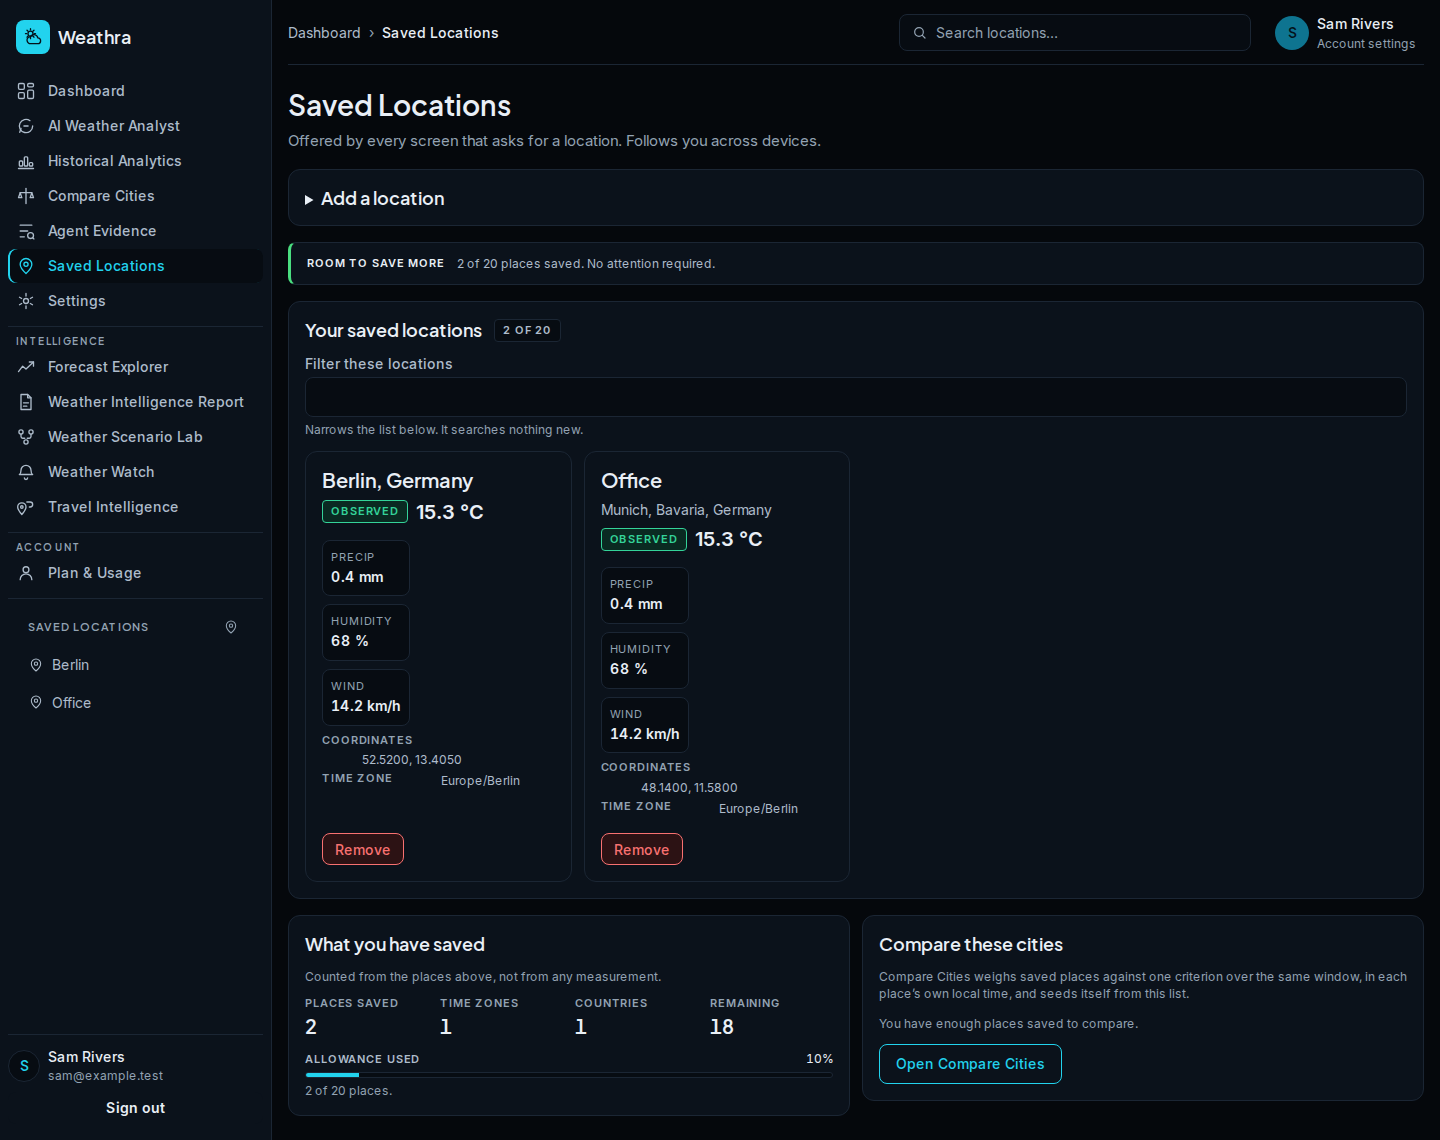
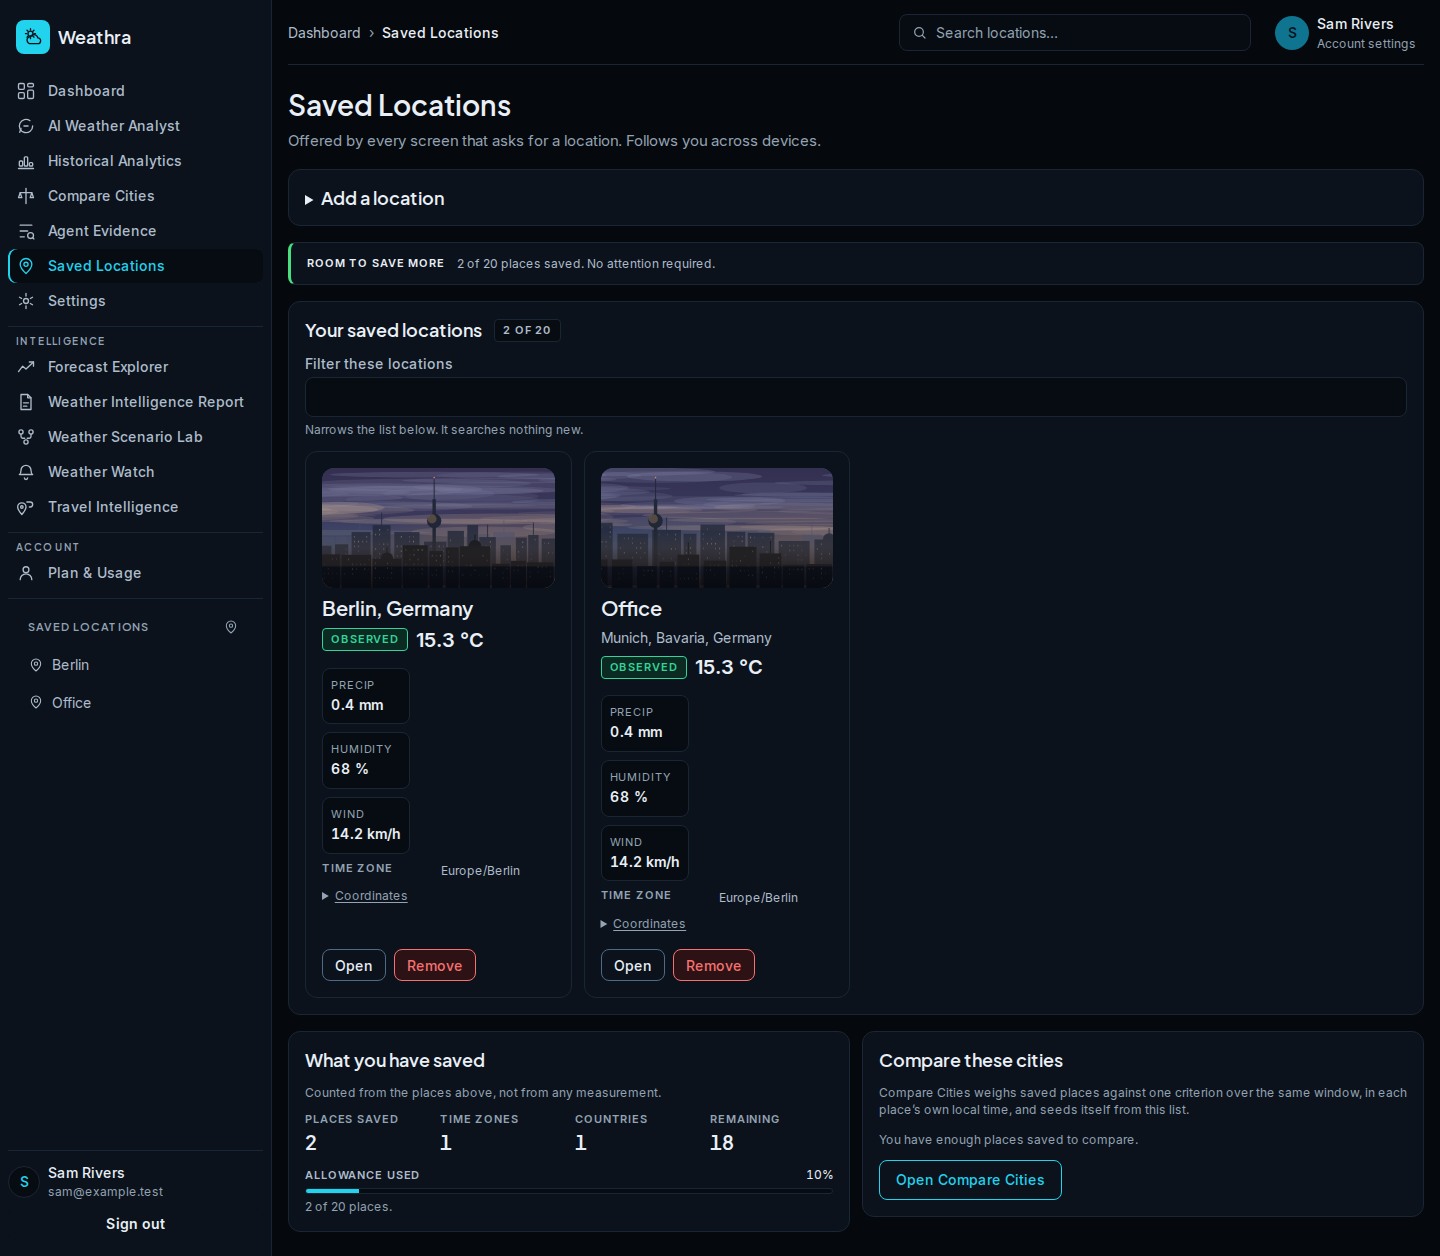
feat(locations): a saved place is a place, not a row
The capture showed a list whose cards led with `COORDINATES 52.5200, 13.4050` and whose only control
removed them. A saved place is something a person chose to keep; the card made the loudest thing
about it the way to lose it, and identified it by the number Weathra stores rather than the city
they saved.

The card now opens with the place pictured, through the same generated-fallback architecture the
Dashboard hero and Compare Cities already use — nothing new, and nothing that can fail to a broken
image. Coordinates move behind a disclosure: they are how Weathra identifies a point, not what a
person calls one. The time zone stays, because every figure above it is stamped in it.

And there is a way in. "Open" briefs on the place, which is what somebody saved it for. It carries a
*name* for the backend's resolver, so a place whose only name is its coordinates sends none and the
Dashboard opens on the default rather than asking the geocoder to geocode a coordinate string —
`sendableName`, the same guard Settings uses for the same reason.

diff --git a/weathra/frontend/components/locations/locations.tsx b/weathra/frontend/components/locations/locations.tsx
@@ -29,6 +29,10 @@
  */
 
 import Link from "next/link";
+
+import { PLACE_PARAM } from "@/components/shell/top-bar";
+import { LocationImage } from "@/components/ui/location-image";
+
 import { useCallback, useState, type FormEvent, type ReactNode } from "react";
 
 import {
@@ -146,6 +150,19 @@ function NamePlace({
  * A place whose provider reports nothing renders nothing rather than a row of dashes. The card is
  * still a card; it simply has no weather to show yet.
  */
+/**
+ * Where "Open" goes: the Dashboard, briefing on this place.
+ *
+ * `?place=` carries a *name* for the backend's resolver to turn into a location, which is the one
+ * path that resolves — so a place whose only name is its coordinates sends none, and the Dashboard
+ * opens on the person's default rather than asking the geocoder to geocode a coordinate string.
+ * `sendableName` is the same guard Settings uses for the same reason.
+ */
+function briefingHref(record: SavedLocationRecord): string {
+  const name = sendableName(record.location);
+  return name ? `/?${PLACE_PARAM}=${encodeURIComponent(name)}` : "/";
+}
+
 function CardWeather({ location }: { readonly location: Location }): ReactNode {
   const { state } = useApiQuery<CurrentResponse>({
     key: ["weather", "current", placeKey(location)],
@@ -221,6 +238,19 @@ function LocationCard({
 
   return (
     <li className={styles.card} data-saved-location={record.id}>
+      {/*
+        The place, pictured. `06-saved-locations.png` identifies a saved place by its city before it
+        identifies it by its name, and the same generated-fallback architecture the Dashboard hero
+        and Compare Cities already use costs nothing to reach for here. Decorative: the name is
+        right underneath, so the image is described by the place rather than describing it.
+      */}
+      <LocationImage
+        displayName={canonical}
+        latitude={record.location.latitude}
+        longitude={record.location.longitude}
+        variant="banner"
+        scrim="soft"
+      />
       <span className={styles.cardName}>{shown}</span>
       {/*
         The person's label never replaces the canonical name — it sits above it. Except where the
@@ -237,20 +267,21 @@ function LocationCard({
       <CardWeather location={record.location} />
 
       {/*
-        Where the place is, under what it is called and what the weather is doing there. Coordinates
-        are how Weathra identifies a point and are kept visible for that reason — but they are the
-        card's smallest print, not its subject.
+        The time zone stays on the card: it is what the place's own day is measured in, and every
+        figure above is stamped in it. The coordinates move behind a disclosure — they are how
+        Weathra identifies a point, not what a person calls one, and a card that leads with
+        `52.5200, 13.4050` is a database row with a picture on it.
       */}
       <dl className={styles.cardFacts}>
-        <div className={styles.cardRow}>
-          <dt className={styles.cardTerm}>Coordinates</dt>
-          <dd className={styles.cardValue}>{coordinatesOf(record.location)}</dd>
-        </div>
         <div className={styles.cardRow}>
           <dt className={styles.cardTerm}>Time zone</dt>
           <dd className={styles.cardValue}>{record.location.timezone}</dd>
         </div>
       </dl>
+      <details className={styles.cardCoordinates}>
+        <summary className={styles.cardCoordinatesSummary}>Coordinates</summary>
+        <span className={styles.cardValue}>{coordinatesOf(record.location)}</span>
+      </details>
 
       {/*
         A small control with a full accessible name.
@@ -263,6 +294,16 @@ function LocationCard({
         nothing about which place.
       */}
       <div className={styles.cardActions}>
+        {/*
+          The way in, beside the way out. A saved place whose only control removed it made the
+          loudest thing about it the way to lose it; opening one brings up its briefing, which is
+          what somebody saved it for.
+        */}
+        <Link className={styles.cardOpen} href={briefingHref(record)}>
+          <Button variant="secondary" size="sm">
+            Open
+          </Button>
+        </Link>
         <Button
           variant="danger"
           size="sm"

diff --git a/weathra/frontend/components/locations/locations.module.css b/weathra/frontend/components/locations/locations.module.css
@@ -414,3 +414,30 @@
   font-variant-numeric: tabular-nums;
   overflow-wrap: anywhere;
 }
+
+/*
+ * The place, pictured, then named. The image is the card's first element and sets its width, so
+ * the grid keeps its columns rather than letting a long place name widen one.
+ */
+.card > :global(figure),
+.card > :global(div[data-location-image]) {
+  margin: calc(var(--space-3) * -1) calc(var(--space-3) * -1) var(--space-2);
+  border-radius: var(--radius-md) var(--radius-md) 0 0;
+  overflow: hidden;
+}
+
+/* Coordinates are how Weathra identifies a point, not what a person calls one. */
+.cardCoordinates {
+  font-size: var(--type-meta-size);
+  color: var(--color-text-muted);
+}
+
+.cardCoordinatesSummary {
+  cursor: pointer;
+  text-decoration: underline;
+  text-underline-offset: 0.2em;
+}
+
+.cardOpen {
+  text-decoration: none;
+}
